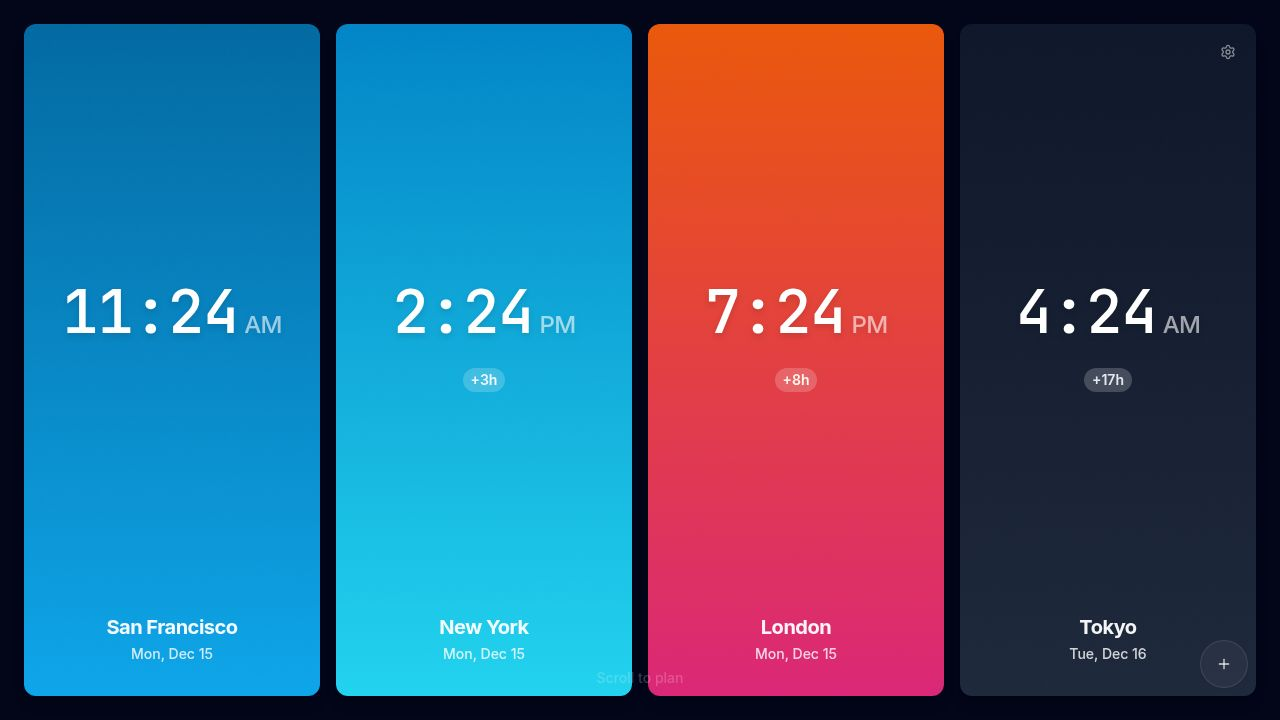
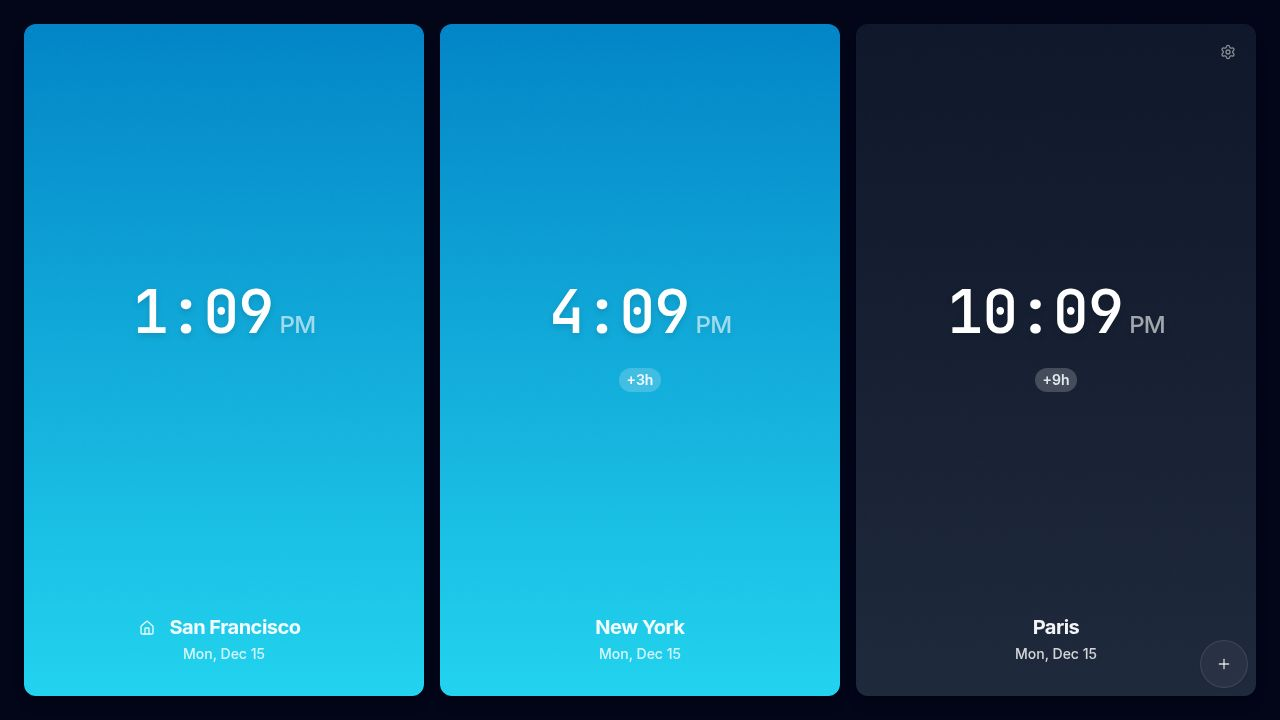
Add new cities to the timezone list in the correct order
Update the `addZone` function to automatically insert new timezones in their chronologically sorted position based on UTC offset, while still allowing manual reordering.

Replit-Commit-Author: Agent
Replit-Commit-Session-Id: 51a5bd55-27c6-4fa9-a076-305dff4a42ee
Replit-Commit-Checkpoint-Type: full_checkpoint
Replit-Commit-Event-Id: 1e36f8b5-a0dc-4543-af92-68959f7c8409
Replit-Commit-Screenshot-Url: https://storage.googleapis.com/screenshot-production-us-central1/13cc5516-d237-49a3-bf90-d868238ce4bb/51a5bd55-27c6-4fa9-a076-305dff4a42ee/RFKWAw9
Replit-Helium-Checkpoint-Created: true

diff --git a/client/src/lib/store.ts b/client/src/lib/store.ts
@@ -45,6 +45,24 @@ const DEFAULT_ZONES: Zone[] = [
   { id: '3', ianaName: 'Europe/Paris', label: 'Paris' },
 ];
 
+// Get UTC offset in minutes for a timezone
+const getUtcOffset = (ianaName: string): number => {
+  const now = new Date();
+  const formatter = new Intl.DateTimeFormat('en-US', {
+    timeZone: ianaName,
+    timeZoneName: 'shortOffset',
+  });
+  const parts = formatter.formatToParts(now);
+  const offsetPart = parts.find(p => p.type === 'timeZoneName')?.value || '';
+  // Parse offset like "GMT+5:30" or "GMT-8"
+  const match = offsetPart.match(/GMT([+-])?(\d+)?(?::(\d+))?/);
+  if (!match) return 0;
+  const sign = match[1] === '-' ? -1 : 1;
+  const hours = parseInt(match[2] || '0', 10);
+  const minutes = parseInt(match[3] || '0', 10);
+  return sign * (hours * 60 + minutes);
+};
+
 export const useStore = create<AppState & Actions>()(
   persist(
     (set) => ({
@@ -54,9 +72,24 @@ export const useStore = create<AppState & Actions>()(
       isPlanning: false,
       planningTime: null,
 
-      addZone: (ianaName, label) => set((state) => ({
-        zones: [...state.zones, { id: nanoid(), ianaName, label }]
-      })),
+      addZone: (ianaName, label) => set((state) => {
+        const newZone = { id: nanoid(), ianaName, label };
+        const newOffset = getUtcOffset(ianaName);
+        
+        // Find the right position to insert (sorted by UTC offset, west to east)
+        const zonesWithOffsets = state.zones.map(z => ({
+          zone: z,
+          offset: getUtcOffset(z.ianaName)
+        }));
+        
+        let insertIndex = zonesWithOffsets.findIndex(z => z.offset > newOffset);
+        if (insertIndex === -1) insertIndex = state.zones.length;
+        
+        const newZones = [...state.zones];
+        newZones.splice(insertIndex, 0, newZone);
+        
+        return { zones: newZones };
+      }),
 
       removeZone: (id) => set((state) => ({
         zones: state.zones.filter((z) => z.id !== id)
